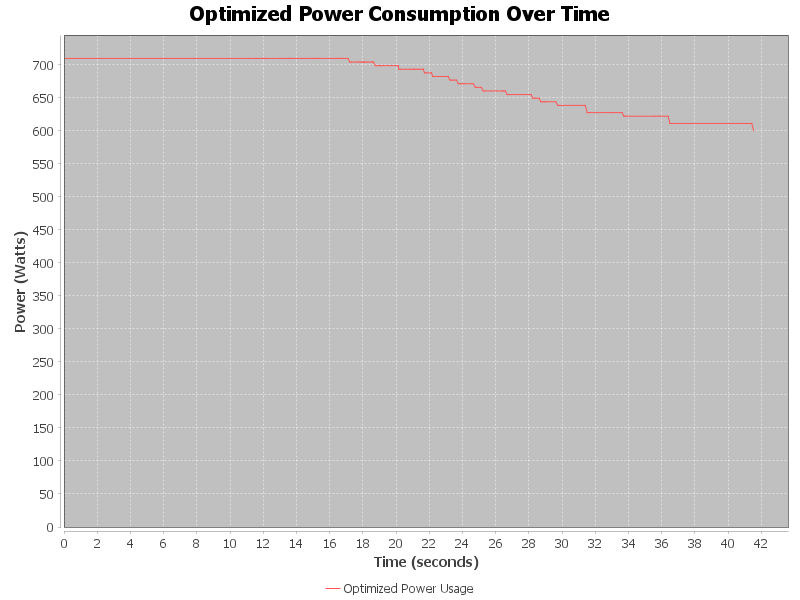
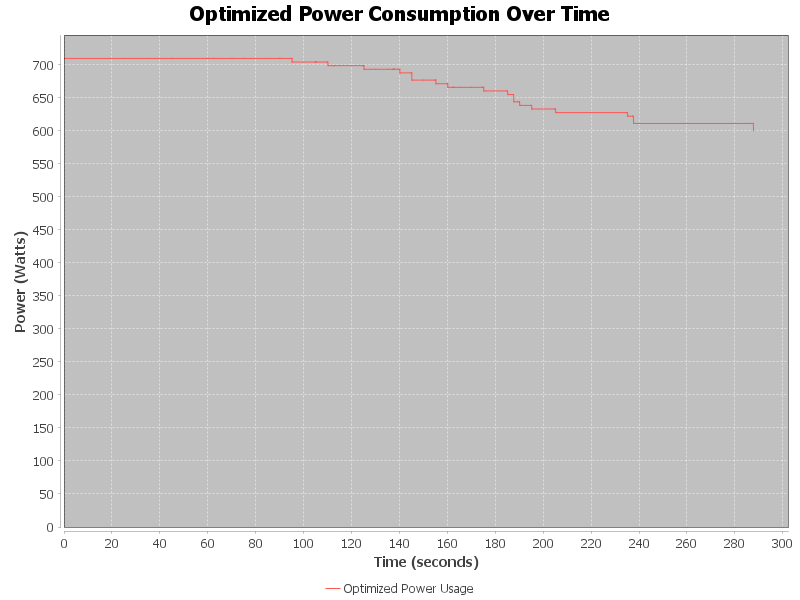
Updated

diff --git a/modules/cloudsim-examples/src/main/java/org/cloudbus/cloudsim/examples/CostEfficientResourceAllocation.java b/modules/cloudsim-examples/src/main/java/org/cloudbus/cloudsim/examples/CostEfficientResourceAllocation.java
@@ -173,7 +173,7 @@ public class CostEfficientResourceAllocation {
         XYSeries optimizedSeries = new XYSeries("Optimized");
 
         for (int i = 0; i < timeStamps.size(); i++) {
-            double baselinePower = 800 + (i * 15); // Simulate linear growth for baseline
+            double baselinePower = 800 + (i * 2); // Simulate linear growth for baseline
             baselineSeries.add(timeStamps.get(i).doubleValue(), baselinePower);
             optimizedSeries.add(timeStamps.get(i), powerOverTime.get(i));
         }
